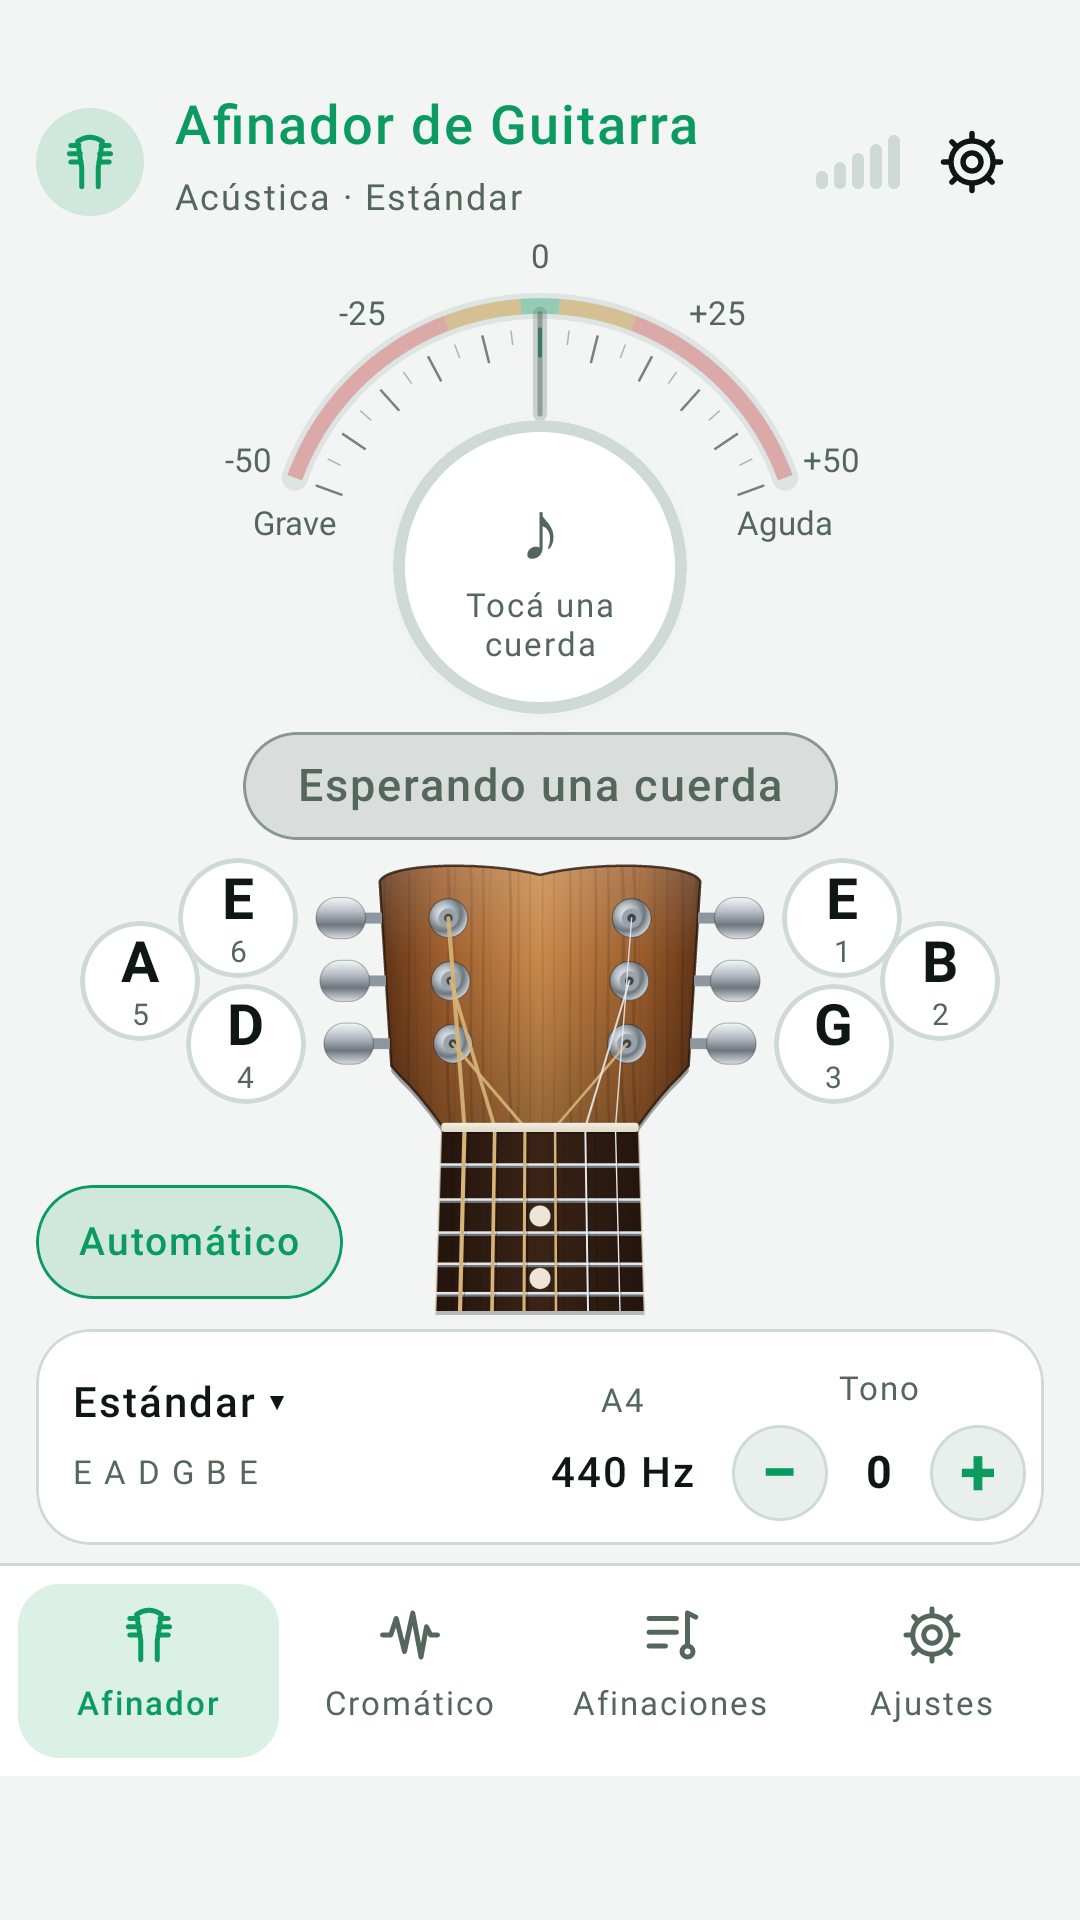
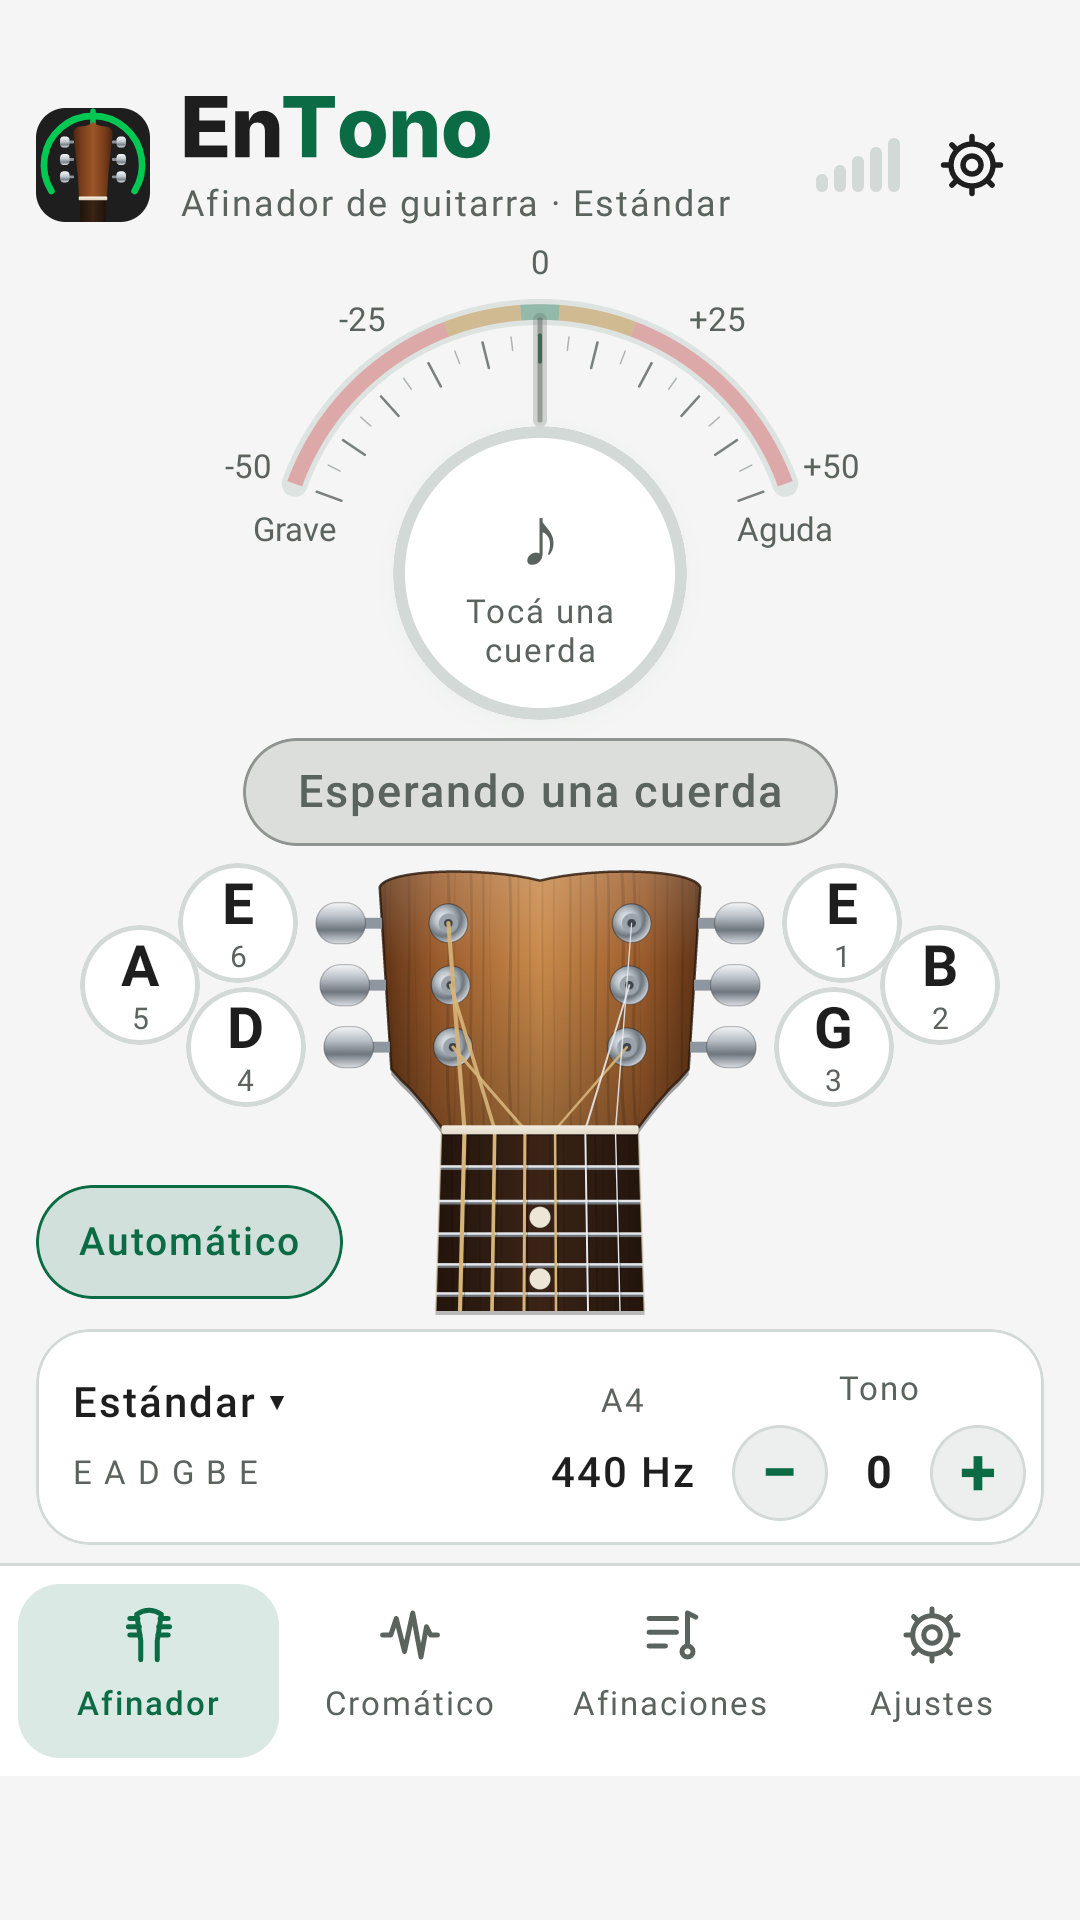
EnTono: informe y capturas actualizados para la versión 1.0.9
Claude-Session: https://claude.ai/code/session_01PLz5xwo8xYp4HnG1p9CSPT

diff --git a/docs/INFORME.md b/docs/INFORME.md
@@ -1,4 +1,4 @@
-# Informe de compilación y pruebas — Afinador Acústico 1.0.7
+# Informe de compilación y pruebas — EnTono 1.0.9
 
 Todo lo que figura acá se ejecutó de verdad, en este entorno o en GitHub Actions. Ningún resultado es simulado.
 
@@ -6,11 +6,11 @@ Todo lo que figura acá se ejecutó de verdad, en este entorno o en GitHub Actio
 
 | | |
 |---|---|
-| APK de lanzamiento | `AfinadorAcustico-1.0.7.apk` (1.344.560 bytes) |
-| Descarga | https://github.com/georgestrike25-afk/App-pc-finazas/releases/download/afinador-v1.0.7/AfinadorAcustico-1.0.7.apk |
-| Página del release | https://github.com/georgestrike25-afk/App-pc-finazas/releases/tag/afinador-v1.0.7 |
[1 lines of base64/hex data omitted]
-| Paquete | `com.afinador.acustico`, versionCode 7, minSdk 26 (Android 8.0), targetSdk 35 |
+| APK de lanzamiento | `EnTono-1.0.9.apk` (1.402.614 bytes) |
+| Descarga | https://github.com/georgestrike25-afk/App-pc-finazas/releases/download/entono-v1.0.9/EnTono-1.0.9.apk |
+| Página del release | https://github.com/georgestrike25-afk/App-pc-finazas/releases/tag/entono-v1.0.9 |
[1 lines of base64/hex data omitted]
+| Paquete | `com.afinador.acustico` (nombre visible «EnTono»), versionCode 9, minSdk 26 (Android 8.0), targetSdk 35 |
 | Firma | APK Signature Scheme v2, verificada con `apksigner verify` (1 firmante). Clave generada en la compilación (ver «Limitaciones»). |
 | Permisos | Sólo `RECORD_AUDIO`. Ni Internet ni ningún otro (lo comprueba el CI y falla si aparece `INTERNET`). |
 | Código fuente | rama `ccr-f6019910-wn0a74`, carpeta `afinador-acustico/` |
@@ -18,6 +18,14 @@ Todo lo que figura acá se ejecutó de verdad, en este entorno o en GitHub Actio
 También se publica una variante `-debug.apk` como versión de prueba. Para usar la app, instalá la de lanzamiento.
 
 Verificación de la descarga hecha en este entorno: el SHA-256 coincide con `SHA256SUMS.txt`, el zip está íntegro y contiene `classes.dex`, `AndroidManifest.xml` y `resources.arsc`.
+
+## Identidad visual EnTono (versión 1.0.9)
+
+- Nombre visible **EnTono**; el identificador de paquete `com.afinador.acustico` no cambió (las instalaciones previas siguen siendo la misma app).
+- Ícono adaptable vectorial (fondo + primer plano + monocromo), pantalla de inicio con `core-splashscreen` (logotipo «EnTono» en Android 12+), logotipo en la barra superior, el tutorial y Acerca de.
+- Paleta: grafito `#1E1E1E`, verde `#00C853` (tema oscuro) y `#0A6B45` (verdes del tema claro, por contraste).
+- Los recursos se generan con `branding/generar_marca.py`; las piezas para tiendas y redes están en [`marca/`](marca/).
+- Verificado en CI: `aapt2 dump badging` informa `application-label:'EnTono'`; las pruebas de interfaz pasaron en API 34 y API 29. La primera ejecución del job de API 34 falló **antes de correr pruebas** porque el runner no pudo descargar el emulador («Error on ZipFile unknown archive»); la ejecución siguiente pasó.
 
 ## Entorno
 
@@ -57,10 +65,10 @@ El ≈ 0,3 cent de error con la cuerda pulsada viene de la inarmonicidad física
 
 **Fallas encontradas y corregidas:** la primera versión fallaba con ruido fuerte. Tenía errores de octava (−1201 cents) con SNR 10 dB y una dispersión de 17 cents con SNR 20 dB en E2. Se corrigió agregando un pasa bajos Butterworth antes de YIN y eligiendo el primer mínimo cercano al global cuando hay ruido.
 
-### 2. App Android (CI, ejecución 40550350794, commit `421c153`): todo correcto
+### 2. App Android (CI, ejecución 40562792777, commit `594dc3d`): todo correcto
 
 - `:app:testDebugUnitTest`, `:app:lintDebug` (sin errores), `assembleDebug`, `assembleRelease` (R8 activado) y `assembleDebugAndroidTest`: correctos.
-- **Pruebas de interfaz en emulador**, 8 de 8 en dos dispositivos: API 34 (Pixel 6) y API 29 (Nexus 5, pantalla chica de 360×640 dp). Usan el micrófono, el motor y DataStore reales:
+- **Pruebas de interfaz en emulador**, 9 de 9 en dos dispositivos: API 34 (Pixel 6) y API 29 (Nexus 5, pantalla chica de 360×640 dp). Usan el micrófono, el motor y DataStore reales:
   - La pantalla principal muestra el mástil, las 6 cuerdas, la nota, el medidor y los controles sin desplazar, incluso en la pantalla chica.
   - Con el micrófono del emulador en silencio, el motor real informa «Esperando una cuerda».
   - La cuerda se selecciona a mano y se vuelve al modo automático.
@@ -70,6 +78,7 @@ El ≈ 0,3 cent de error con la cuerda pulsada viene de la inarmonicidad física
   - El tema Claro u Oscuro elegido sigue igual después de recrear la actividad.
   - Una afinación personalizada se crea, se guarda, sigue después de recrear la actividad y se elimina.
   - Se recorrieron el modo cromático, la privacidad y el tutorial.
+  - La marca EnTono (logotipo y «Afinador de guitarra») se ve en la pantalla principal y en Acerca de.
   - Se tomaron capturas de todas las pantallas en los dos temas (adjuntas al release).
 
 **Fallas encontradas por estas pruebas y corregidas:**
